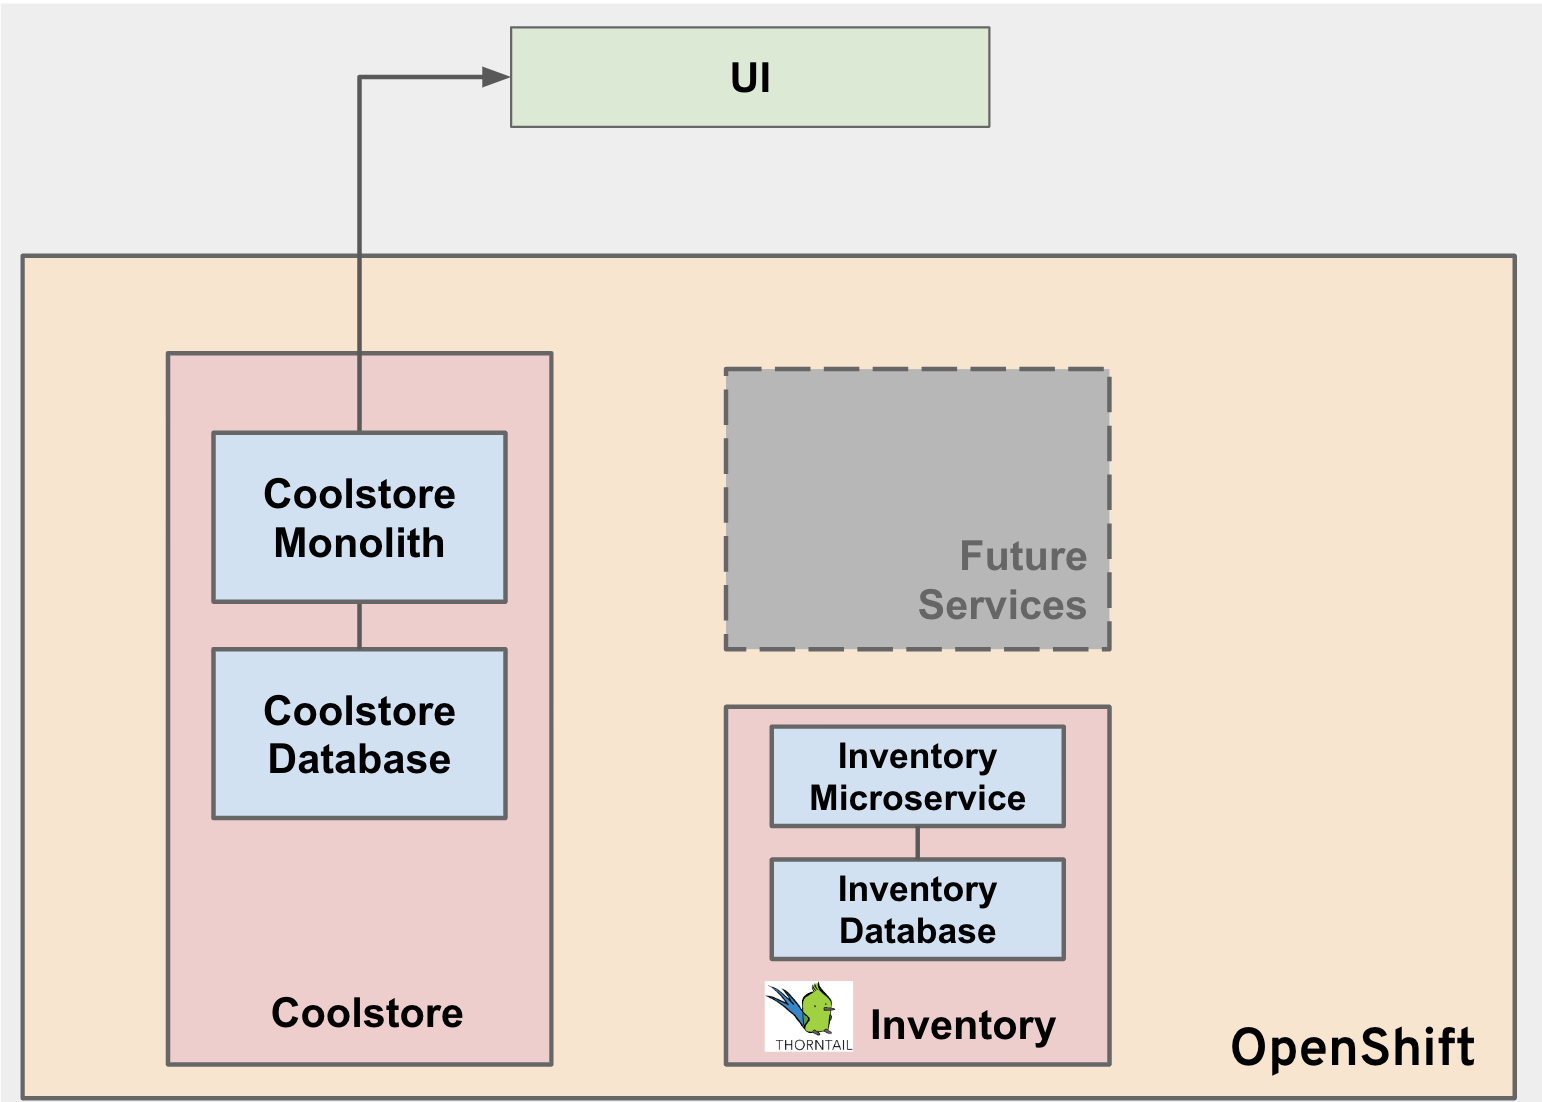
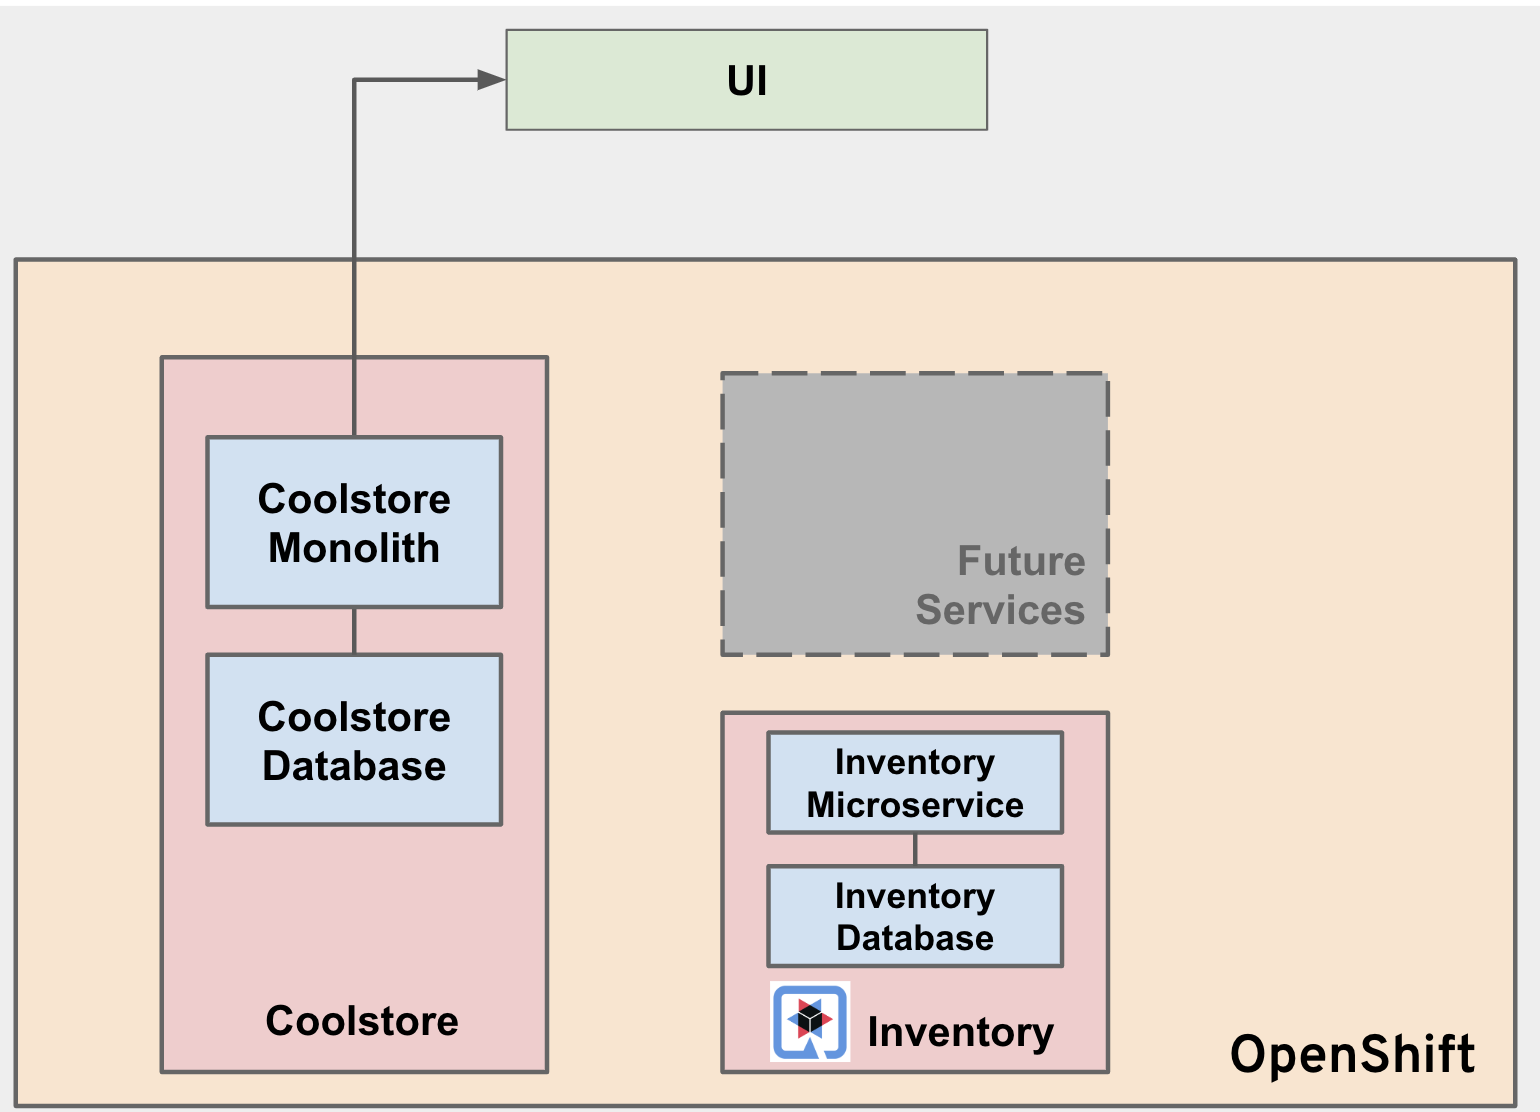
update Qurarkus

diff --git a/break-monolith-apart1.md b/break-monolith-apart1.md
@@ -8,10 +8,14 @@ microservices using different technologies, with the eventual goal of re-archite
 distributed microservices. Later on we'll explore how you can better manage and monitor the application after
 it is re-architected.
 
-In this lab you will learn more about [Thorntail](https://thorntail.io/), one of the runtimes
-included in [Red Hat OpenShift Application Runtimes](https://developers.redhat.com/products/rhoar). WildFly
-Swarm is a great place to start since our application is a Java EE application, and your skills as a Java EE
-developer will naturally translate to the world of Thorntail.
+In this lab you will learn more about **Supersonic Subatomic Java** [Qurakus](https://Quarkus.io/), has been designed with `Container first & Cloud Native World` 
+in mind, and provides first-class support for these different paradigms. Quarkus development model morphs to adapt itself to the type of application you are developing.
+
+Quarkus is a `Kubernetes Native Java` stack tailored for `GraalVM & OpenJDK HotSpot`, crafted from the best of breed Java libraries and standards. 
+Amazingly fast boot time, incredibly low RSS memory (not just heap size!) offering near instant scale up and high density memory utilization 
+in container orchestration platforms like Kubernetes. Quarkus uses a technique called compile time boot. [Learn more](https://quarkus.io/vision/container-first).
+
+This will be one of the runtimes included in [Red Hat OpenShift Application Runtimes](https://developers.redhat.com/products/rhoar) in 2020. 
 
 You will implement one component of the monolith as a Thorntail microservice and modify it to address
 microservice concerns, understand its structure, deploy it to OpenShift and exercise the interfaces between
@@ -25,29 +29,25 @@ But after this lab, you should end up with something like:
 ![lab3_goal]({% image_path goal.png %}){:width="700px"}
 
 ---
-#### What is Thorntail? 
+#### What is Quarkus? 
 
-![thorntail_logo]({% image_path thorntail-logo.png %})
+![quarkus-logo]({% image_path quarkus-logo.png %})
 
-Java EE applications are traditionally created as an **ear** or **war** archive including all 
-dependencies and deployed in an application server. Multiple Java EE applications can and 
-were typically deployed in the same application server. This model is well understood in 
-the development teams and has been used over the past several years.
+For years, the client-server architecture has been the de-facto standard to build applications. 
+But a major shift happened. The one model rules them all age is over. A new range of applications 
+and architecture styles has emerged and impacts how code is written and how applications are deployed and executed. 
+HTTP microservices, reactive applications, message-driven microservices and serverless are now central players in modern systems.
 
-[Thorntail](http://thorntail.io) offers an innovative approach to packaging and 
-running Java EE applications by 
-packaging them with just enough of the Java EE server runtime to be able to run them directly 
-on the JVM using **java -jar** For more details on various approaches to packaging Java 
-applications,
-read [this blog post](https://developers.redhat.com/blog/2017/08/24/the-skinny-on-fat-thin-hollow-and-uber).
+[Qurakus](https://Quarkus.io/) offers 4 major benefits to build cloud-native, microservices, and serverless Java applicaitons:
 
-Thorntail is based on WildFly and it's compatible with 
-[Eclipse MicroProfile](https://microprofile.io), which is a community effort to standardized the subset of Java EE standards 
-such as JAX-RS, CDI and JSON-P that are useful for building microservices applications.
+* Developer Joy - Cohesive platform for optimized developer joy through unified configuration, Zero config with live reload in the blink of an eye,
+   streamlined code for the 80% common usages with flexible for the 20%, and no hassle native executable generation.
+* Unifies Imperative and Reactive - Inject the EventBus or the Vertx context for both Reactive and imperative development in the same application.
+* Functions as a Service and Serverless - Superfast startup and low memory utilization. With Quarkus, you can embrace this new world without having 
+  to change your programming language.
+* Best of Breed Frameworks & Standards - Eclipse Vert.x, Hibernate, RESTEasy, Apache Camel, Eclipse MicroProfile, Netty, Kubernetes, OpenShift,
+  Jaeger, Prometheus, Apacke Kafka, Infinispan, and more.
 
-Since Thorntail is based on Java EE standards, it significantly simplifies refactoring 
-existing Java EE application to microservices and allows much of existing code-base to be 
-reused in the new services.
 
 **1. Setup an Inventory proejct**
 
@@ -58,22 +58,23 @@ In the project explorer, right-click on **inventory** and then change a director
 ![inventory_setup]({% image_path bootstrap-che-inventory-project.png %}){:width="500px"}
 
 **2. Examine the Maven project structure**
-
-The sample project shows the components of a basic Thorntail project laid out in different
-subdirectories according to Maven best practices.
+The sample Quarkus project shows a minimal CRUD service exposing a couple of endpoints over REST, 
+with a front-end based on Angular so you can play with it from your browser.
 
 > Click on the `inventory` folder in the project explorer and navigate below folders and files.
 
-This is a minimal Java EE project with support for JAX-RS for building
-RESTful services and JPA for connecting
-to a database. [JAX-RS](https://docs.oracle.com/javaee/7/tutorial/jaxrs.htm)
-is one of Java EE standards that uses Java annotations
-to simplify the development of RESTful web services. [Java Persistence API (JPA)](https://docs.oracle.com/javaee/7/tutorial/partpersist.htm) is
-another Java EE standard that provides Java developers with an
-object/relational mapping facility for managing relational data in Java applications.
+While the code is surprisingly simple, under the hood this is using:
 
-This project currently contains no code other than the main class for exposing a single
-RESTful application defined in `src/main/java/com/redhat/coolstore/rest/RestApplication.java`.
+ * RESTEasy to expose the REST endpoints
+ * Hibernate ORM with Panache to perform the CRUD operations on the database
+ * A PostgreSQL database; see below to run one via Linux Container
+
+`Hibernate ORM` is the de facto JPA implementation and offers you the full breadth of an Object Relational Mapper. 
+It makes complex mappings possible, but it does not make simple and common mappings trivial. Hibernate ORM with 
+Panache focuses on making your entities trivial and fun to write in Quarkus.
+
+This project currently contains no code other than eb resources such as index.html and Unit test codes 
+if the inventory service works as expection in `src/test/java/com/redhat/coolstore/InventoryEndPointTest.java`.
 
 Build and package the app using Maven to make sure the changed code still compiles via Eclipse Che **BUILD** window:
 
@@ -86,11 +87,11 @@ verify you made all the changes correctly and try the build again.
 
 Once built, the resulting *jar* is located in the **target** directory via Eclipse Che **Terminal** window:
 
-`ll target/*.jar`
+`ll target/*-runner.jar`
 
 ![inventory_build_success]({% image_path inventory-build-success.png %})
 
-The listed jar archive, **inventory-1.0.0-SNAPSHOT-swarm.jar** , is an uber-jar with
+The listed jar archive, **inventory-1.0.0-SNAPSHOT-runner.jar** , is an uber-jar with
 all the dependencies required packaged in the *jar* to enable running the
 application with **java -jar**. Thorntail also creates a *war* packaging as a standard Java EE web app
 that could be deployed to any Java EE app server (for example, JBoss EAP, or its upstream WildFly project).
